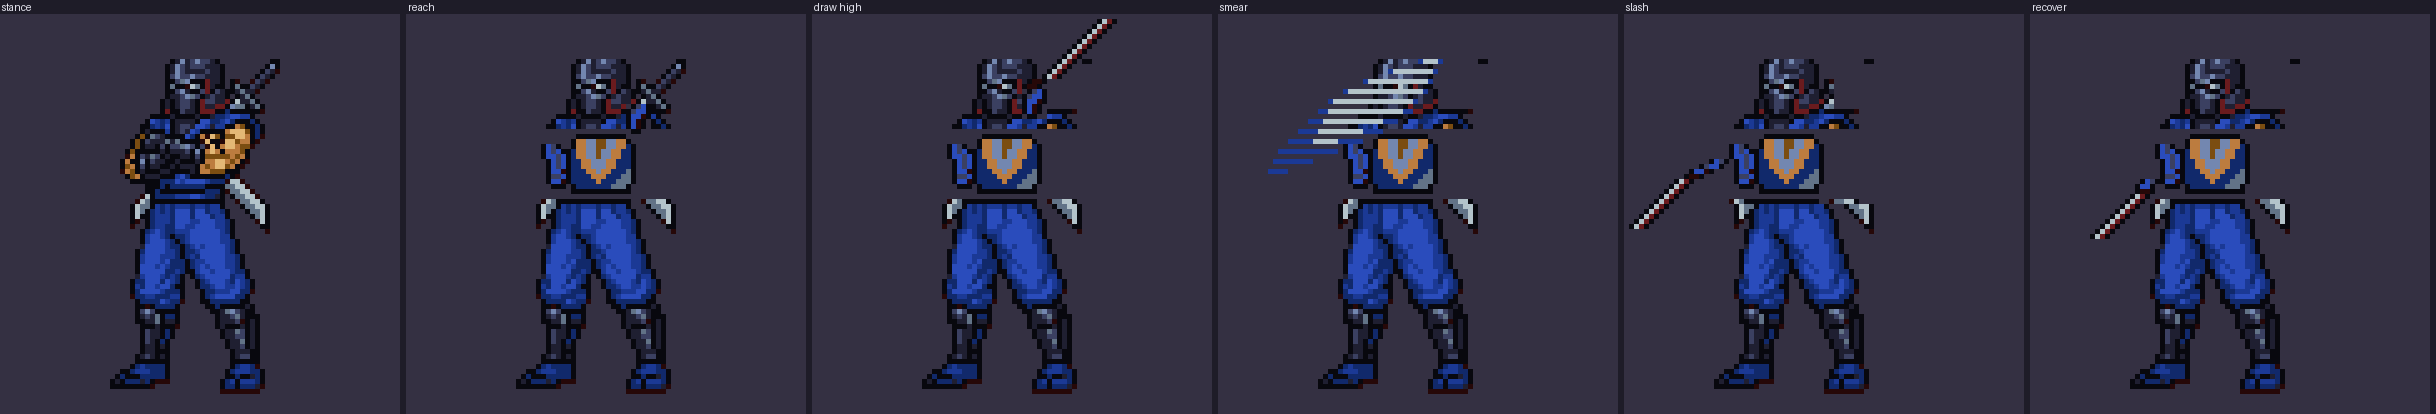
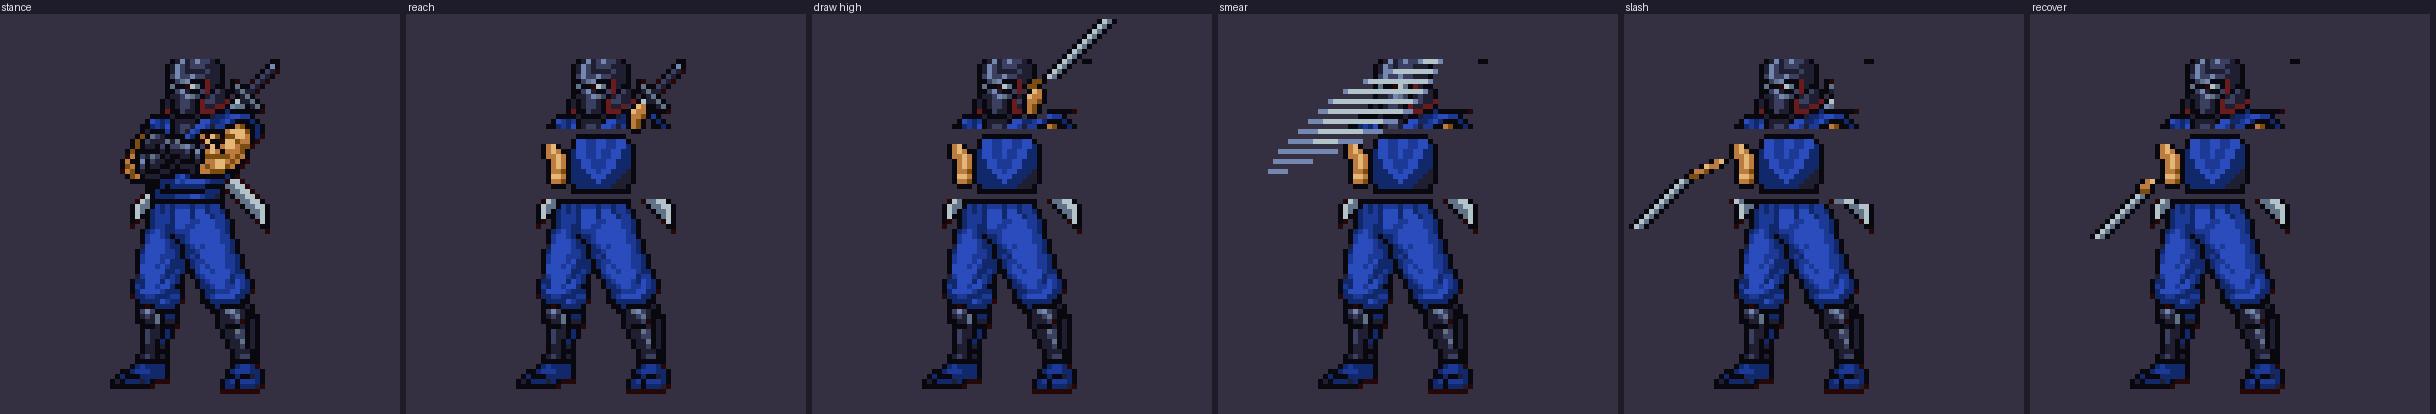
Mike's ninja: overlays written in colour roles so re-extraction can't scramble them
Claude-Session: https://claude.ai/code/session_0156S23pwVB8PAo3CNfbv2Nz

diff --git a/tools/sf/mike_ninja/frames.py b/tools/sf/mike_ninja/frames.py
@@ -22,8 +22,24 @@ TOP = GROUND - 66          # the sprite's row 0 in the box
 
 PAL = Palette(NAME, {l: tuple(int(v) for v in rest.split()) for l, rest in
                      (ln.strip().split(" ", 1) for ln in open(os.path.join(HERE, "palette.txt")) if ln.strip())})
-# letters: N near-black (the sprite's own outline), E/G dark cloth, A/H/F/M blues, B/D steel, I/K blue-grey,
-#          C/J/L skin (mid / light / dark). 'o' = our outline where the photo's red fringe was.
+
+
+def _nearest(rgb):
+    return min(((l, c) for l, c in PAL.map.items() if l != "o"), key=lambda lc: sum((a - b) ** 2 for a, b in zip(lc[1], rgb)))[0]
+
+
+# overlays are written in ROLE letters and translated to whatever letters the extractor assigned this time
+ROLE = {
+    "c": _nearest((195, 129, 66)), "j": _nearest((232, 189, 123)), "l": _nearest((112, 56, 21)),      # skin mid / light / dark
+    "f": _nearest((43, 77, 190)), "h": _nearest((27, 58, 150)), "a": _nearest((17, 36, 91)),         # blue light / mid / dark
+    "b": _nearest((186, 202, 210)), "d": _nearest((105, 124, 138)), "k": _nearest((8, 8, 14)),       # steel light / mid, black
+    "e": _nearest((32, 30, 45)), "g": _nearest((120, 141, 182)),                                     # dark cloth, blue-grey
+}
+TR = str.maketrans({k: v for k, v in ROLE.items()})
+
+
+def R(text):
+    return text.translate(TR)
 
 ARM_ROWS = (14, 28)        # the crossed-arms band in sprite rows
 
@@ -47,39 +63,39 @@ def breathe(k):
 
 # ------------------------------------------------------------------ the open-arms torso
 # the crossed arms are replaced by the suit's chest and two straight arms (overlays in sprite rows 14-28)
-CHEST = [
-    "...NNNNNNNNNN....",
-    "..NFFHHMMHHFFN...",
-    "..NFFHHMMHHFFAN..",
-    ".NAFFHHMHHFFAAN..",
-    ".NAFFHHMHHFFAAN..",
-    ".NAAFFHHHFFAAAN..",
-    ".NAAFFHHHFFAAAN..",
-    ".NAAAFFHFFAAAEN..",
-    ".NAAAAFFFAAAEEN..",
-    ".NAAAAAFAAAEEEN..",
-    "..NAAAAAAAEEEN...",
-    "..NNNNNNNNNNNN...",
-]
-ARM_DOWN_NEAR = [          # the near arm hanging, fist by the hip
-    "NCJN",
-    "NCJCN",
-    "NCCJCN",
-    ".NCJCN",
-    ".NCJCN",
-    ".NCCLN",
-    ".NJJCN",
-    ".NCCLN",
-    "..NNN.",
-]
-ARM_UP_FAR = [             # the far arm reaching up over the shoulder to the hilt
-    ".NJCN",
-    "NJCCN",
-    "NCCLN",
-    "NCLN.",
-    "NCLN.",
-    ".NN..",
-]
+CHEST = [R(s) for s in [
+    "...kkkkkkkkkk....",
+    "..kffhhffhhffk...",
+    "..kffhhffhhffak..",
+    ".kaffhhfhhffaak..",
+    ".kaffhhfhhffaak..",
+    ".kaaffhhhffaaak..",
+    ".kaaffhhhffaaak..",
+    ".kaaaffhffaaaek..",
+    ".kaaaafffaaaeek..",
+    ".kaaaaafaaaeeek..",
+    "..kaaaaaaaeeek...",
+    "..kkkkkkkkkkkk...",
+]]
+ARM_DOWN_NEAR = [R(s) for s in [          # the near arm hanging, fist by the hip
+    "kcjk",
+    "kcjck",
+    "kccjck",
+    ".kcjck",
+    ".kcjck",
+    ".kcclk",
+    ".kjjck",
+    ".kcclk",
+    "..kkk.",
+]]
+ARM_UP_FAR = [R(s) for s in [             # the far arm reaching up over the shoulder to the hilt
+    ".kjck",
+    "kjcck",
+    "kcclk",
+    "kclk.",
+    "kclk.",
+    ".kk..",
+]]
 
 
 def open_torso(g, dx=0, dy=0):
@@ -91,13 +107,14 @@ def open_torso(g, dx=0, dy=0):
         P(g, 17 + i, 5, row, dx, dy)
 
 
-def blade(g, x, y, n, step, dx=0, dy=0, edge="B", mid="D"):
+def blade(g, x, y, n, step, dx=0, dy=0):
+    edge, mid, k = ROLE["b"], ROLE["d"], ROLE["k"]
     for i in range(n):
         px, py = x + step[0] * i, y + step[1] * i
         if step[1] == 0:
-            P(g, py - 1, px, "N", dx, dy); P(g, py, px, edge, dx, dy); P(g, py + 1, px, mid, dx, dy); P(g, py + 2, px, "N", dx, dy)
+            P(g, py - 1, px, k, dx, dy); P(g, py, px, edge, dx, dy); P(g, py + 1, px, mid, dx, dy); P(g, py + 2, px, k, dx, dy)
         else:
-            P(g, py, px, "N" + edge + mid + "N", dx, dy)
+            P(g, py, px, k + edge + mid + k, dx, dy)
 
 
 def reach():
@@ -117,16 +134,16 @@ def draw_high():
     g.clear(X_OFF + 24, TOP + 1, X_OFF + 34, TOP + 10)
     for i, row in enumerate(ARM_UP_FAR):
         P(g, 6 + i, 20, row)
-    P(g, 5, 20, "NLLN"); P(g, 4, 21, "NLLN")               # the hilt in the hand
+    P(g, 5, 20, R("kllk")); P(g, 4, 21, R("kllk"))               # the hilt in the hand
     blade(g, 24, 3, 12, (1, -1))                            # blade up-right
     return g.tidy()
 
 
-SMEAR = [  # a wedge sweeping from over the head down to the front
-    (-6, 20, "KBBBK"), (-4, 14, "KBBBBBBBBK"), (-2, 9, "KBBBBBBBBBBBBK"), (0, 5, "KBBBBBBBBBBBBBBBK"), (2, 2, "KBBBBBBBBBBBBBBBBK"),
-    (4, 0, "KKBBBBBBBBBBBBBBBKK"), (6, -2, "KKKBBBBBBBBBBBBKKK"), (8, -4, "KKKKBBBBBBBBBKKKK"), (10, -6, "KKKKKBBBBBKKKKK"), (12, -8, "KKKKKKKKKKKK"),
-    (14, -9, "KKKKKKKK"), (16, -10, "KKKK"),
-]
+SMEAR = [(y, x, R(t)) for y, x, t in [  # a wedge sweeping from over the head down to the front
+    (-6, 20, "gbbbg"), (-4, 14, "gbbbbbbbbg"), (-2, 9, "gbbbbbbbbbbbbg"), (0, 5, "gbbbbbbbbbbbbbbbg"), (2, 2, "gbbbbbbbbbbbbbbbbg"),
+    (4, 0, "ggbbbbbbbbbbbbbbbgg"), (6, -2, "gggbbbbbbbbbbbbggg"), (8, -4, "ggggbbbbbbbbbgggg"), (10, -6, "gggggbbbbbggggg"), (12, -8, "gggggggggggg"),
+    (14, -9, "gggggggg"), (16, -10, "gggg"),
+]]
 
 
 def smear():
@@ -145,7 +162,7 @@ def slash():
     open_torso(g, dx=-6)
     g.clear(X_OFF + 20, TOP + 1, X_OFF + 30, TOP + 10)
     # the far arm swung down and forward past the near side
-    P(g, 20, 1, "NCJN", -6); P(g, 21, -1, "NJCCN", -6); P(g, 22, -3, "NCCLN", -6); P(g, 23, -4, "NLLN", -6)
+    P(g, 20, 1, R("kcjk"), -6); P(g, 21, -1, R("kjcck"), -6); P(g, 22, -3, R("kcclk"), -6); P(g, 23, -4, R("kllk"), -6)
     blade(g, -6, 24, 10, (-1, 1), dx=-6)                    # blade down-left
     return g.tidy()
 
@@ -154,7 +171,7 @@ def recover():
     g = body(dx=-2)
     open_torso(g, dx=-2)
     g.clear(X_OFF + 22, TOP + 1, X_OFF + 32, TOP + 10)
-    P(g, 24, 2, "NCJN", -2); P(g, 25, 1, "NCCN", -2); P(g, 26, 1, "NLLN", -2)
+    P(g, 24, 2, R("kcjk"), -2); P(g, 25, 1, R("kcck"), -2); P(g, 26, 1, R("kllk"), -2)
     blade(g, 0, 27, 9, (-1, 1), dx=-2)
     return g.tidy()
 
@@ -162,10 +179,10 @@ def recover():
 def select_frames():
     a = body(); b = reach()
     c = body(); open_torso(c)
-    for i, row in enumerate(["NJCN", "NCCN", "NLLN"]):
+    for i, row in enumerate([R("kjck"), R("kcck"), R("kllk")]):
         P(c, 22 + i, 22, row)
     # eye flash: the visor slit glints
-    d = c.copy(); P(d, 7, 12, "BB"); P(d, 7, 16, "BB")
+    d = c.copy(); P(d, 7, 12, R("bb")); P(d, 7, 16, R("bb"))
     return [a, b, c, d, d, c, b, a]
 
 
